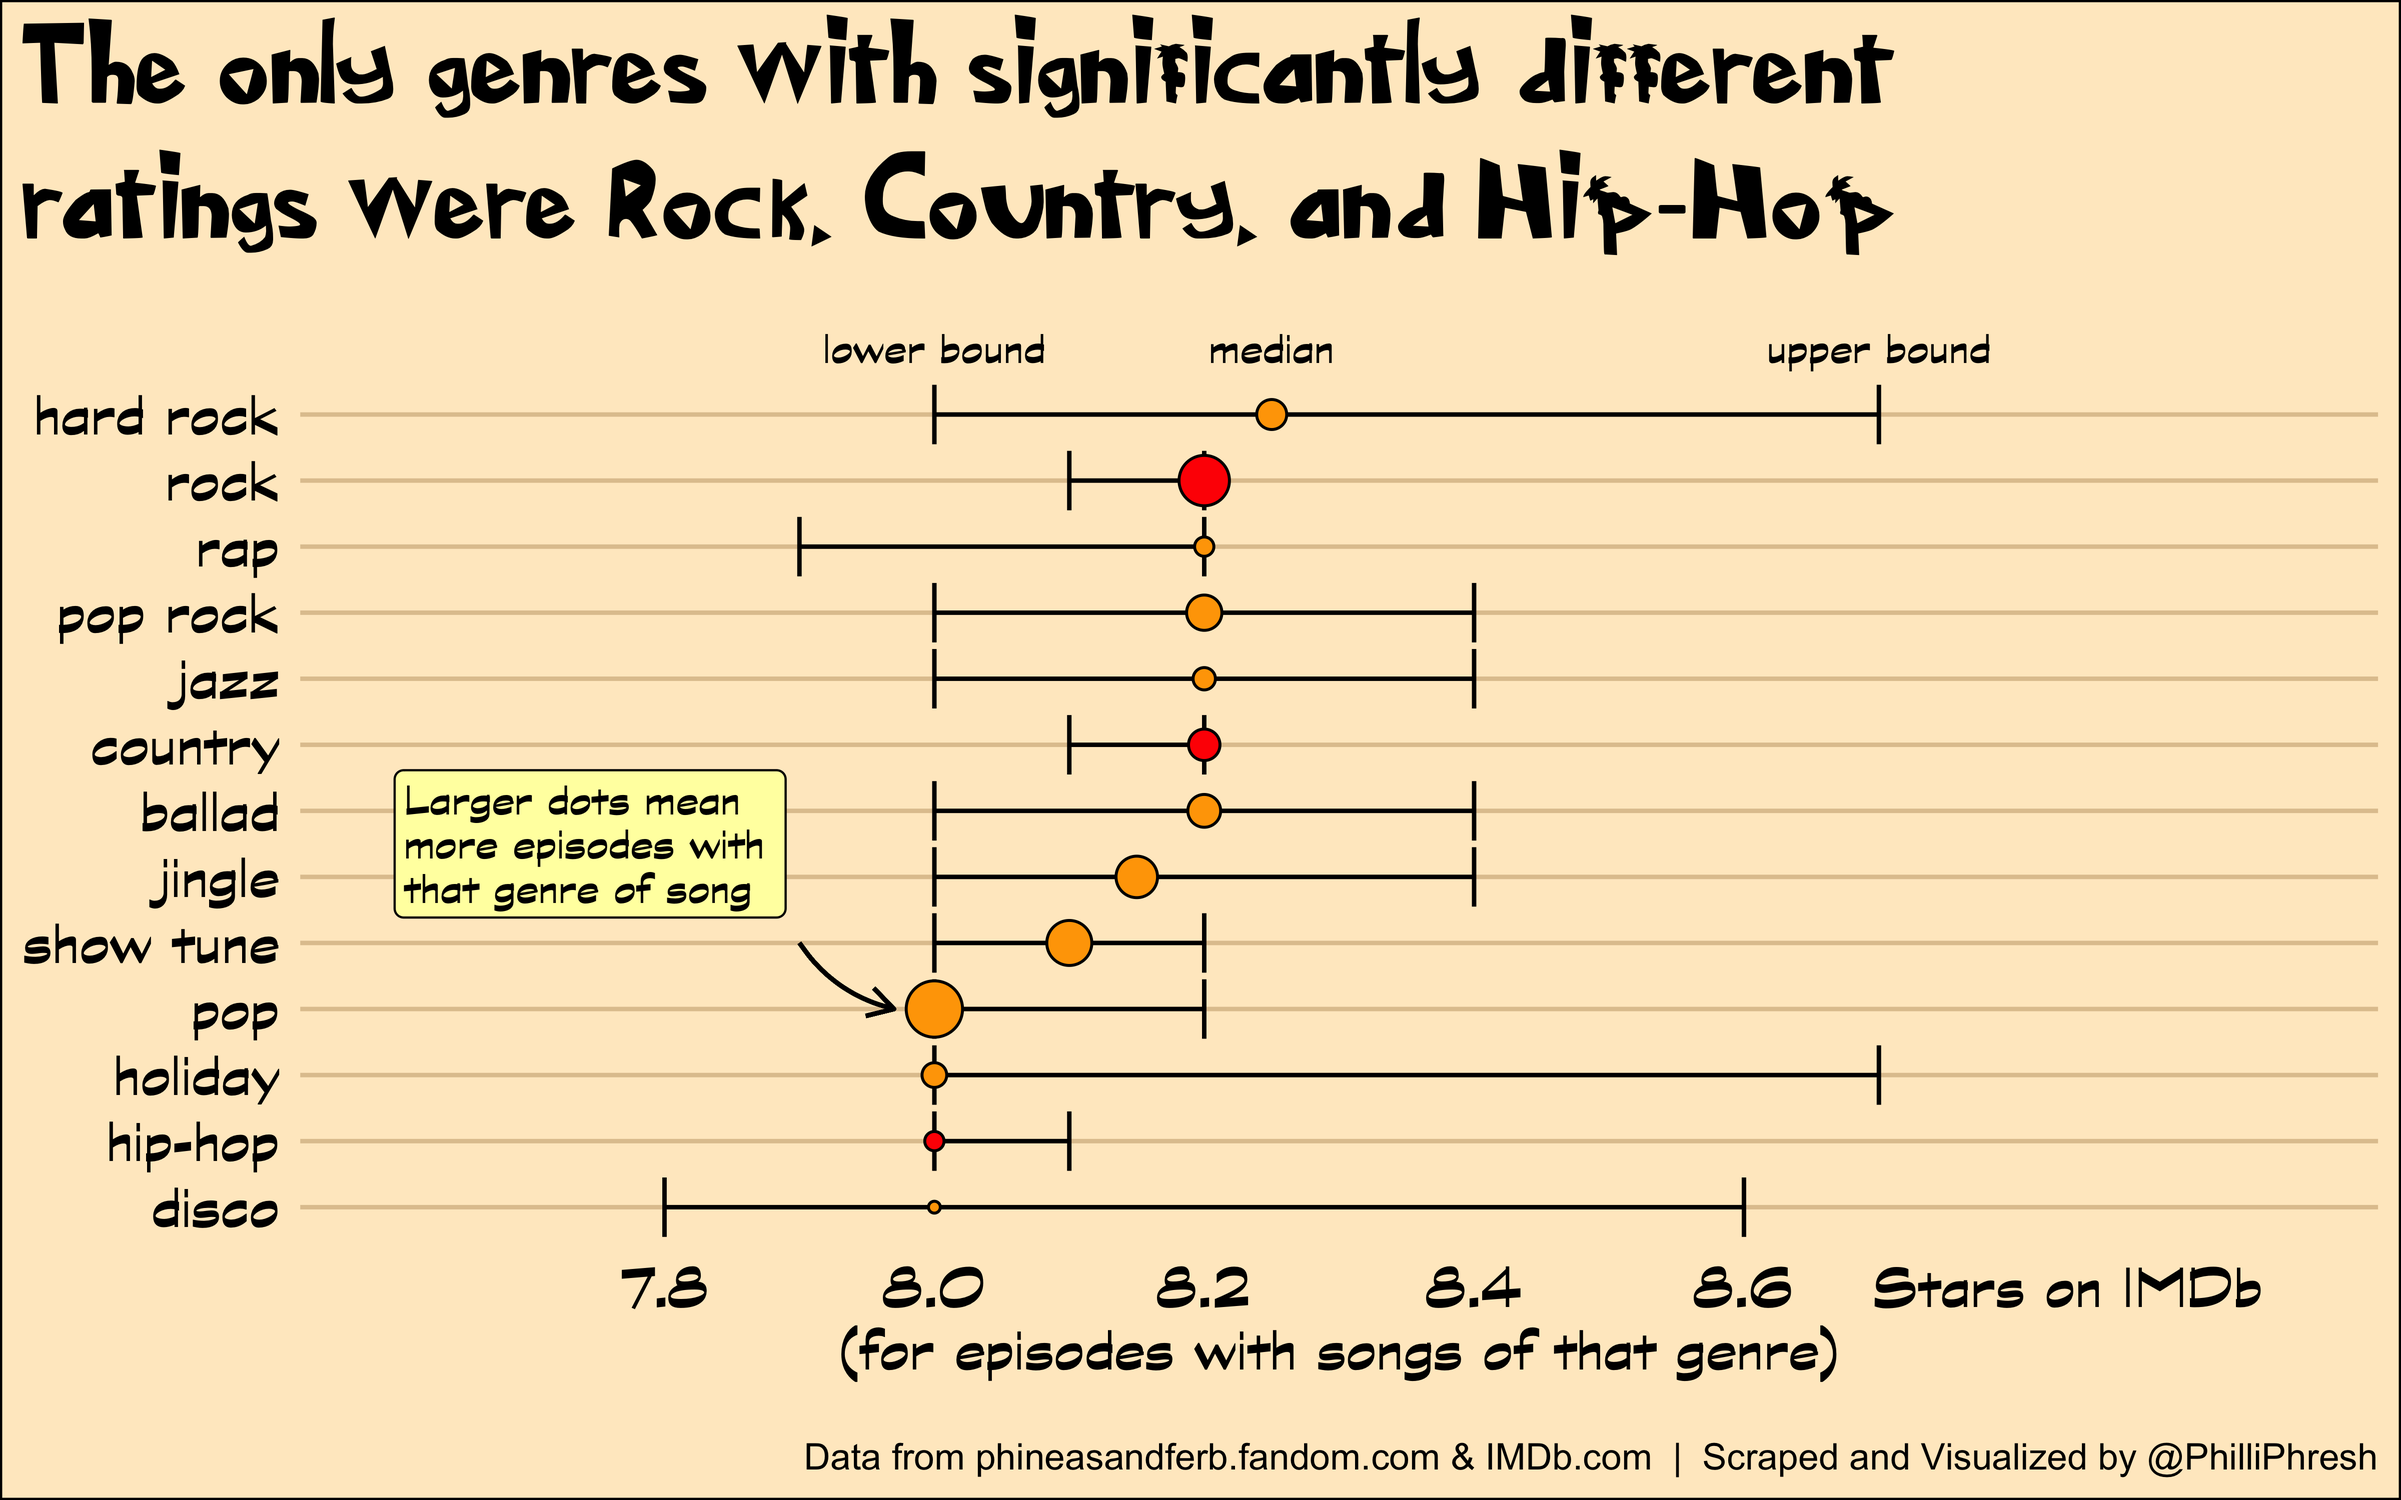
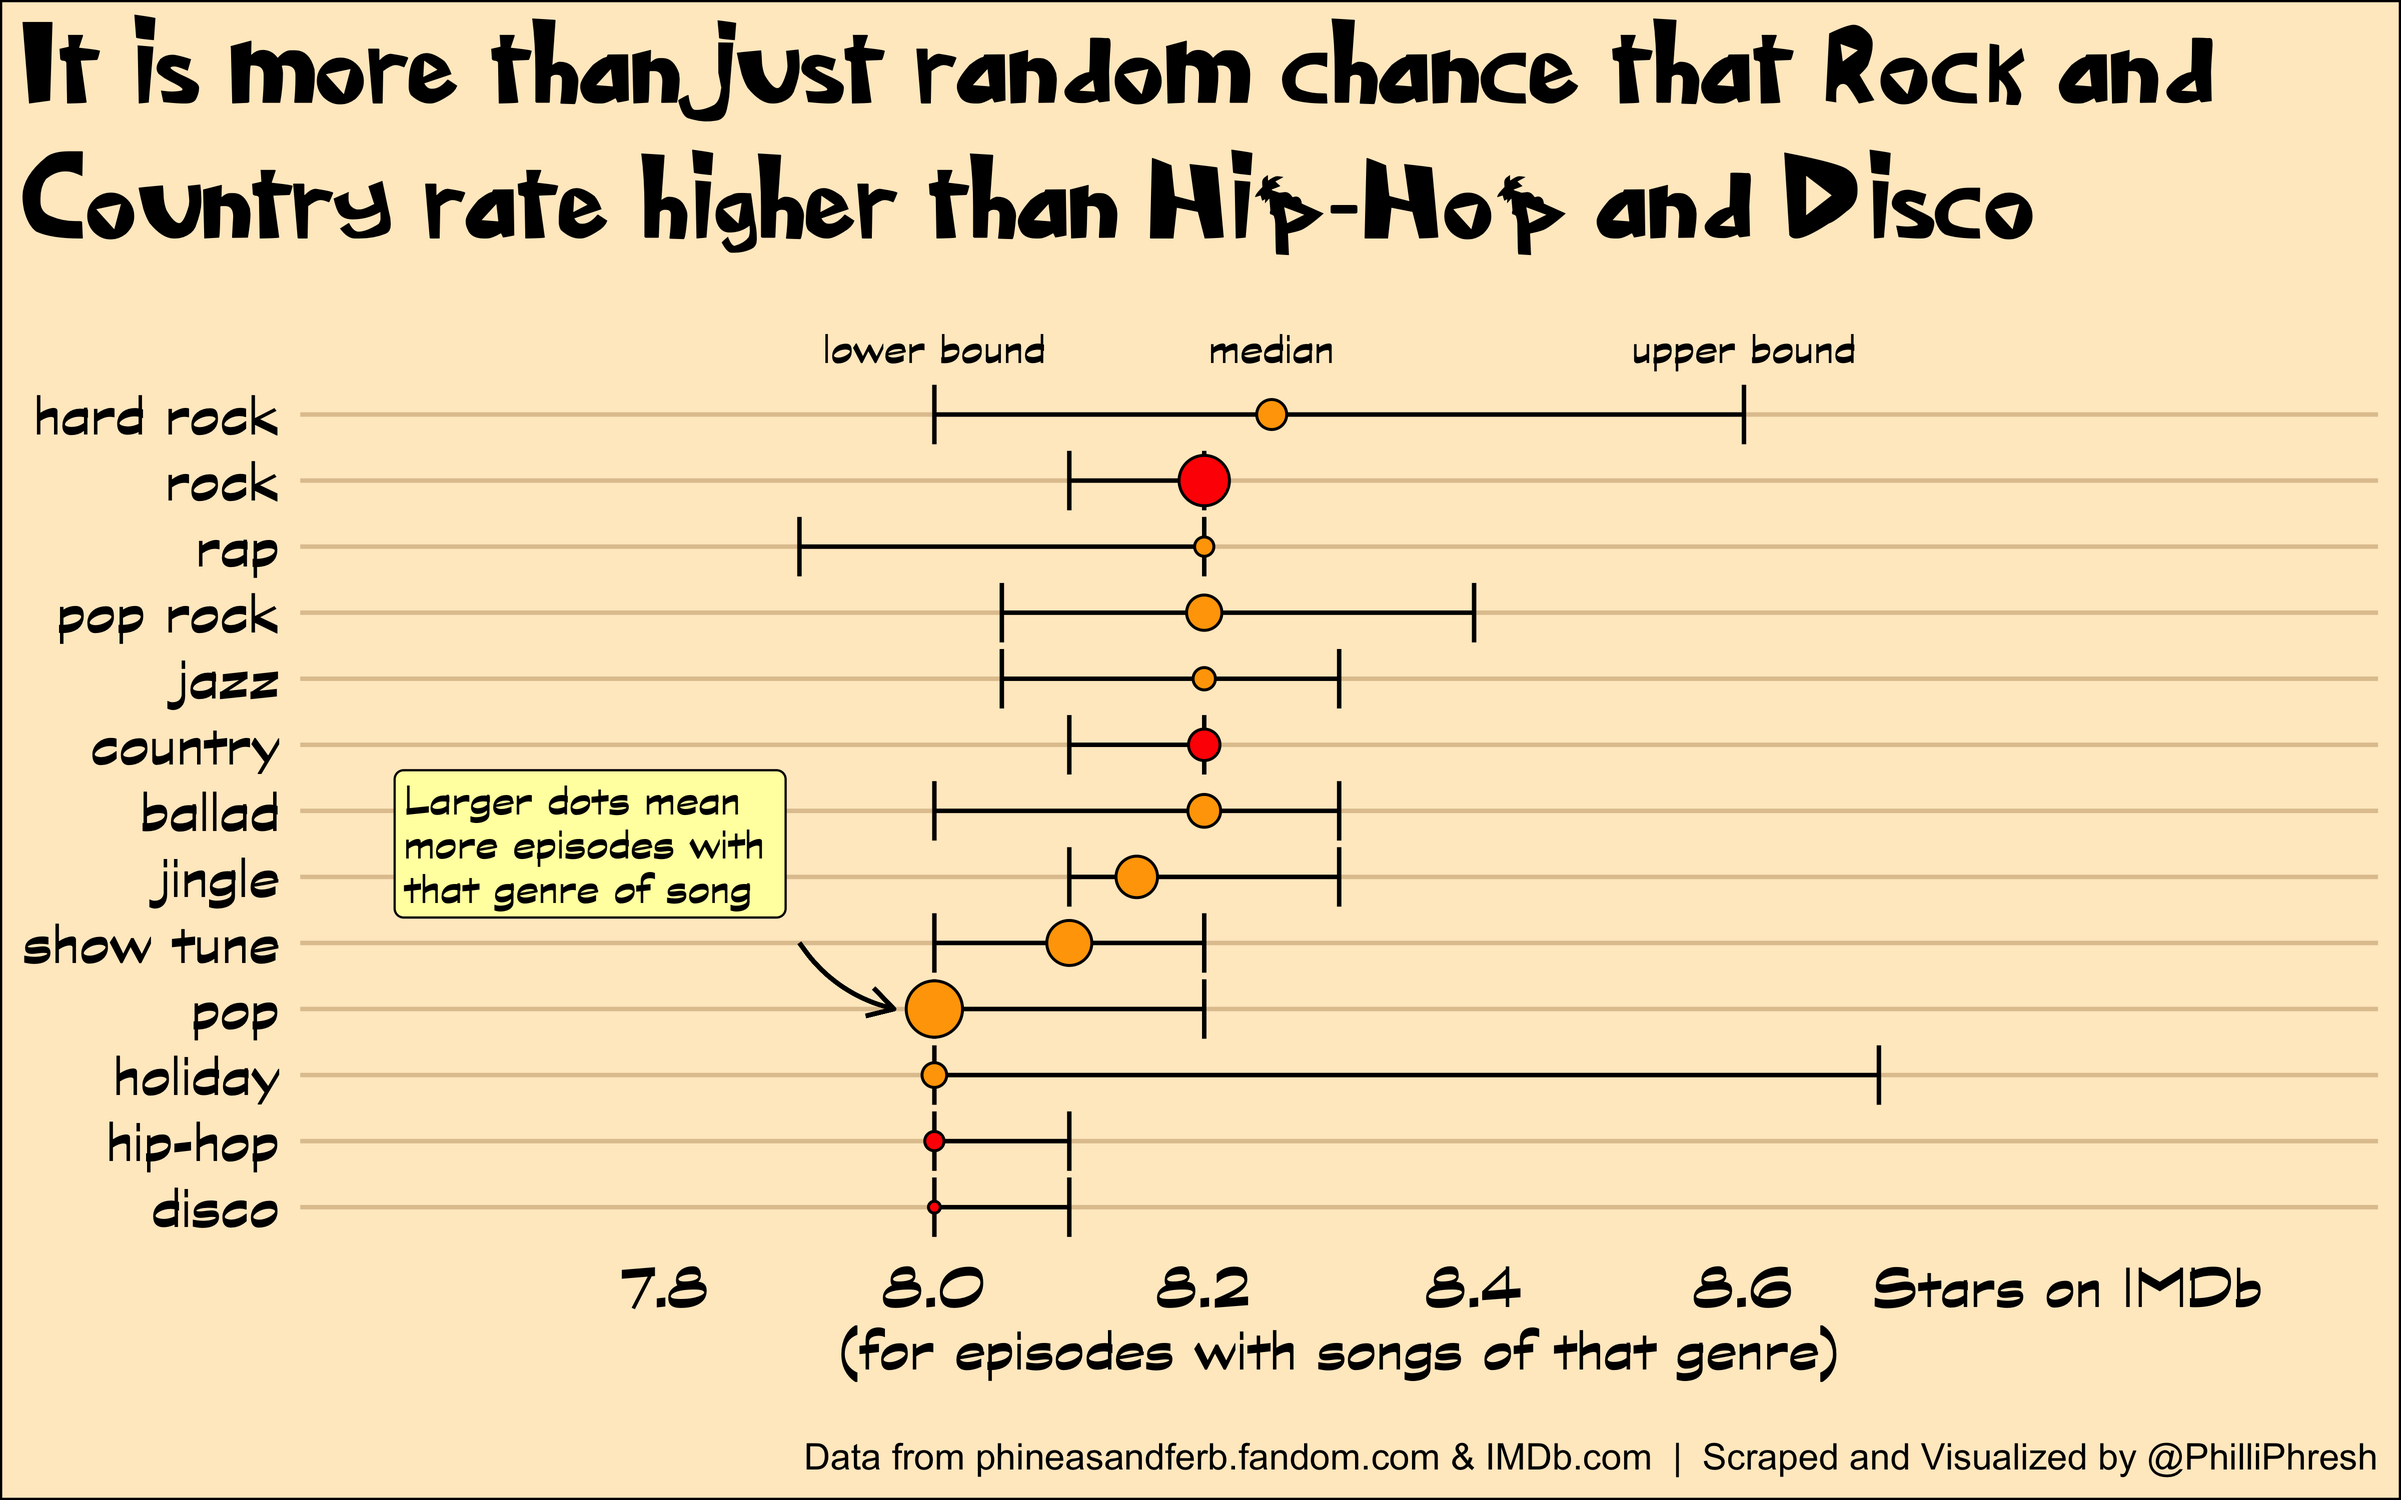
Updated IMDb plot with functions from the infer pkg.

diff --git a/README.md b/README.md
@@ -96,11 +96,12 @@ Ferb episodes with songs of various genres.
 For the statistically-unprepared, the black bars on the plot above show
 “confidence intervals” for the median IMDb rating on each genre: if the
 horizontal line overlaps with another, there is not enough data to
-suggest the different genres have statistically significant differences
-in median IMDb rating. The main takeaway here is that we can be pretty
-confident that episodes with hip-hop songs will rate lower than episodes
-with rock or country songs. Of course, the show would get dull fast if
-all songs were rock in a misguided attempt to maximize ratings.
+suggest it is anything more than random chance that different genres
+have different median IMDb ratings. The main takeaway here is that we
+can be pretty confident that episodes with hip-hop or disco songs will
+rate lower than episodes with rock or country songs. Of course, the show
+would get dull fast if, in a misguided attempt to maximize ratings, all
+songs were rock.
 
 ## Can my personal taste predict gold?
 
